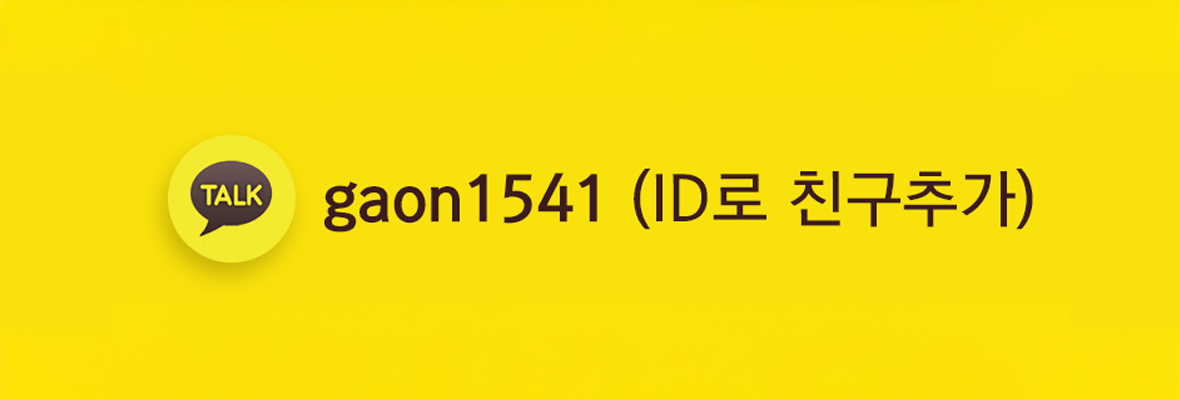
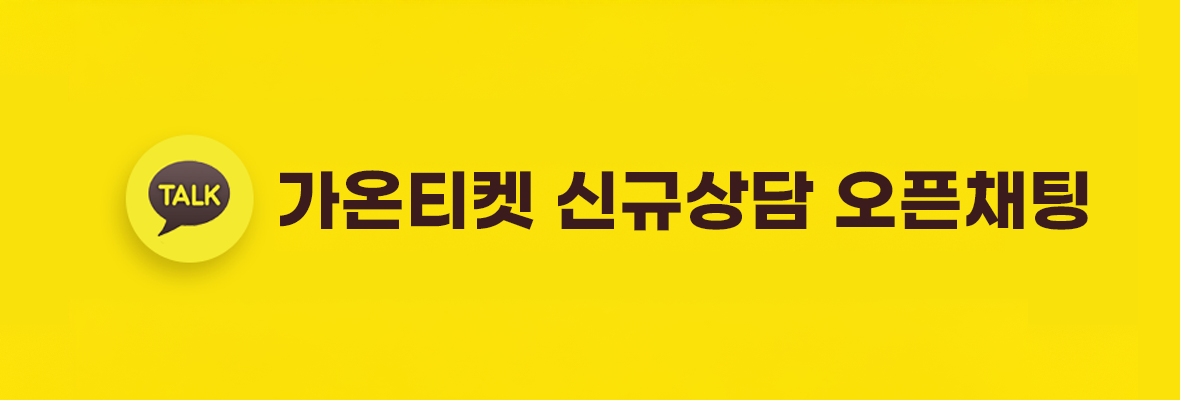
Add files via upload

Changed region(s): [[0.0915, 0.33, 0.9458, 0.69]]

diff --git a/가온티켓이란.html b/가온티켓이란.html
@@ -87,7 +87,7 @@
       <a href="tel:010-4820-1861"><img src="./가온티켓이란_files/TT01.png"></a>
     </div>
     <div class="Rows">
-      <a href="신청방법.html"><img src="./가온티켓이란_files/TT02.png"></a>
+      <a href="https://open.kakao.com/o/sKweyyRg"><img src="./가온티켓이란_files/TT02.png"></a>
     </div>
   </div>
   <div class="FooterArea">

diff --git a/상품안내.html b/상품안내.html
@@ -164,7 +164,7 @@
         <a href="tel:010-2786-5696"><img src="./상품안내_files/TT01.png"></a>
       </div>
       <div class="Rows">
-        <a href="신청방법.html"><img src="./상품안내_files/TT02.png"></a>
+        <a href="https://open.kakao.com/o/sKweyyRg"><img src="./상품안내_files/TT02.png"></a>
       </div>
     </div>
     <div class="FooterArea">

diff --git a/신청방법.html b/신청방법.html
@@ -116,7 +116,7 @@
       <a href="tel:010-4820-1861"><img src="./신청방법_files/TT01.png"></a>
     </div>
     <div class="Rows">
-      <a href="신청방법.html"><img src="./신청방법_files/TT02.png"></a>
+      <a href="https://open.kakao.com/o/sKweyyRg"><img src="./신청방법_files/TT02.png"></a>
     </div>
   </div>
   <div class="FooterArea">

diff --git a/index.html b/index.html
@@ -253,7 +253,7 @@
       <a href="tel:010-4820-1861"><img src="./가온티켓/TT01.png"></a>
     </div>
     <div class="Rows">
-      <a href="신청방법.html"><img src="./가온티켓/TT02.png"></a>
+      <a href="https://open.kakao.com/o/sKweyyRg"><img src="./가온티켓/TT02.png"></a>
     </div>
   </div>
   <div class="FooterArea">

diff --git a/faq.html b/faq.html
@@ -146,7 +146,7 @@
       <a href="tel:010-4820-1861"><img src="./faq_files/TT01.png"></a>
     </div>
     <div class="Rows">
-      <a href="신청방법.html"><img src="./faq_files/TT02.png"></a>
+      <a href="https://open.kakao.com/o/sKweyyRg"><img src="./faq_files/TT02.png"></a>
     </div>
   </div>
   <div class="FooterArea">
